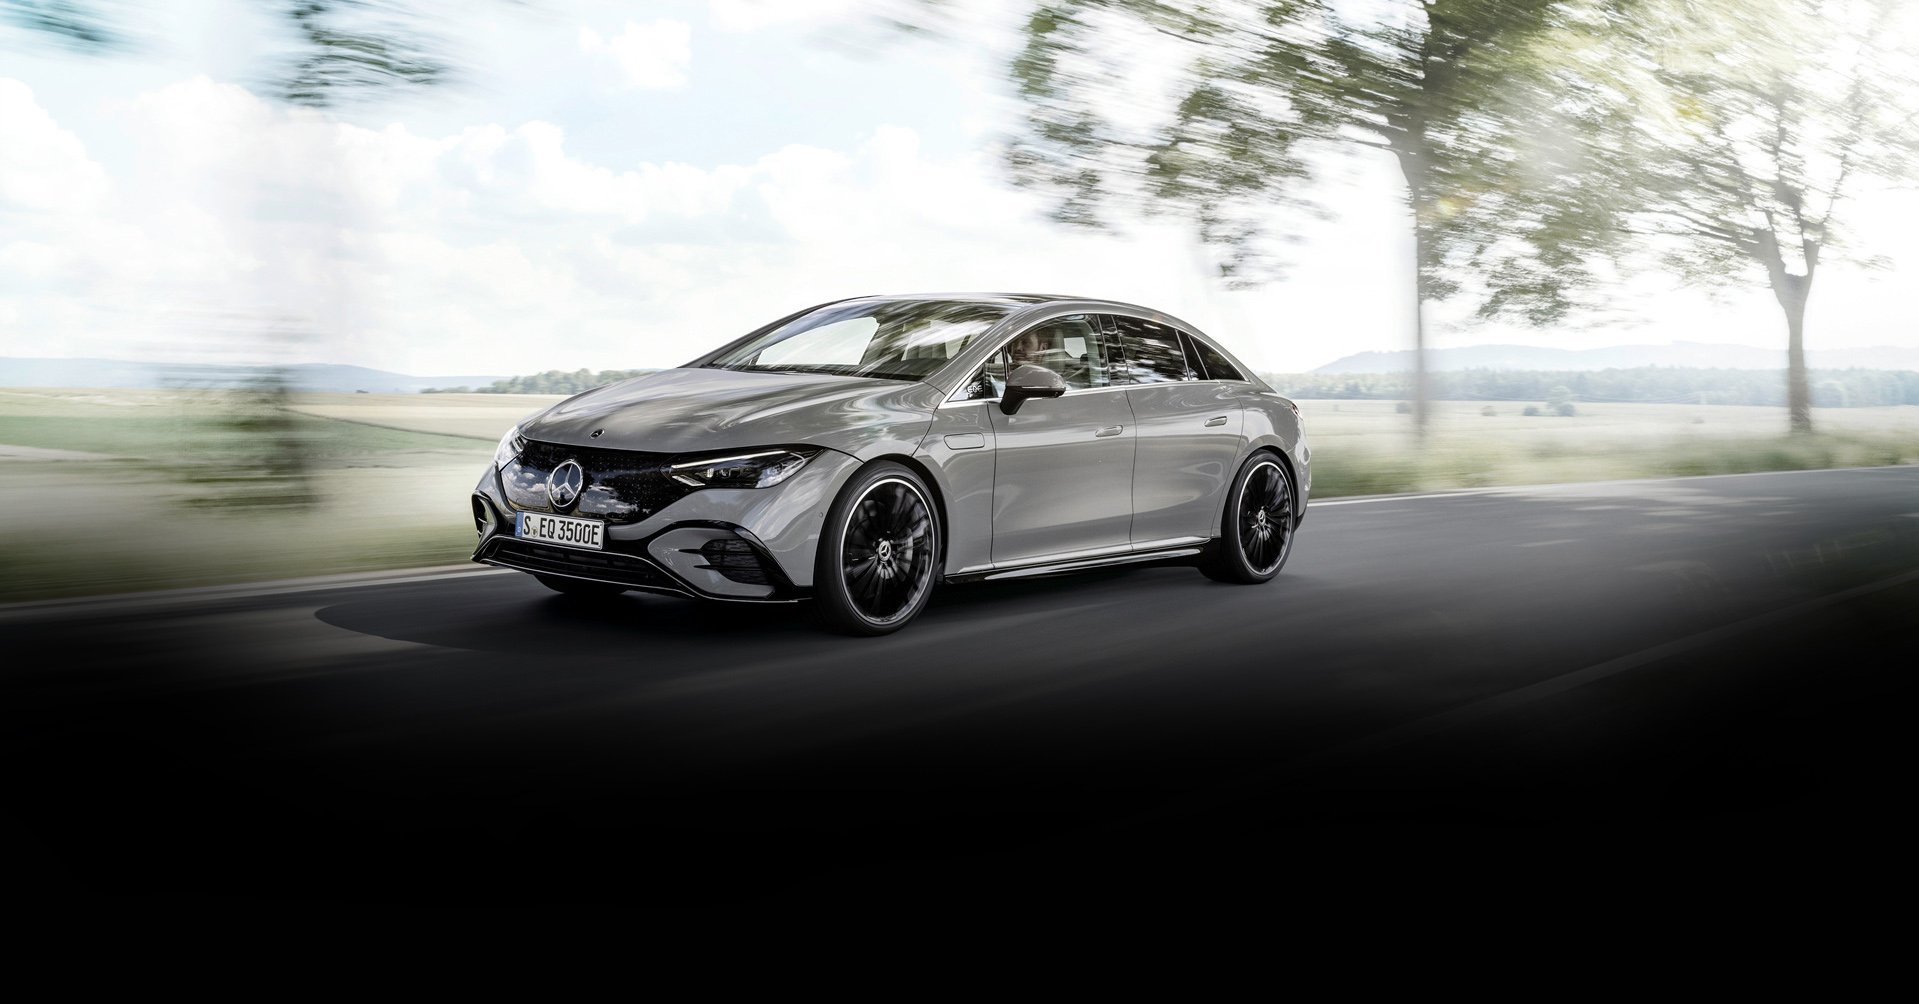
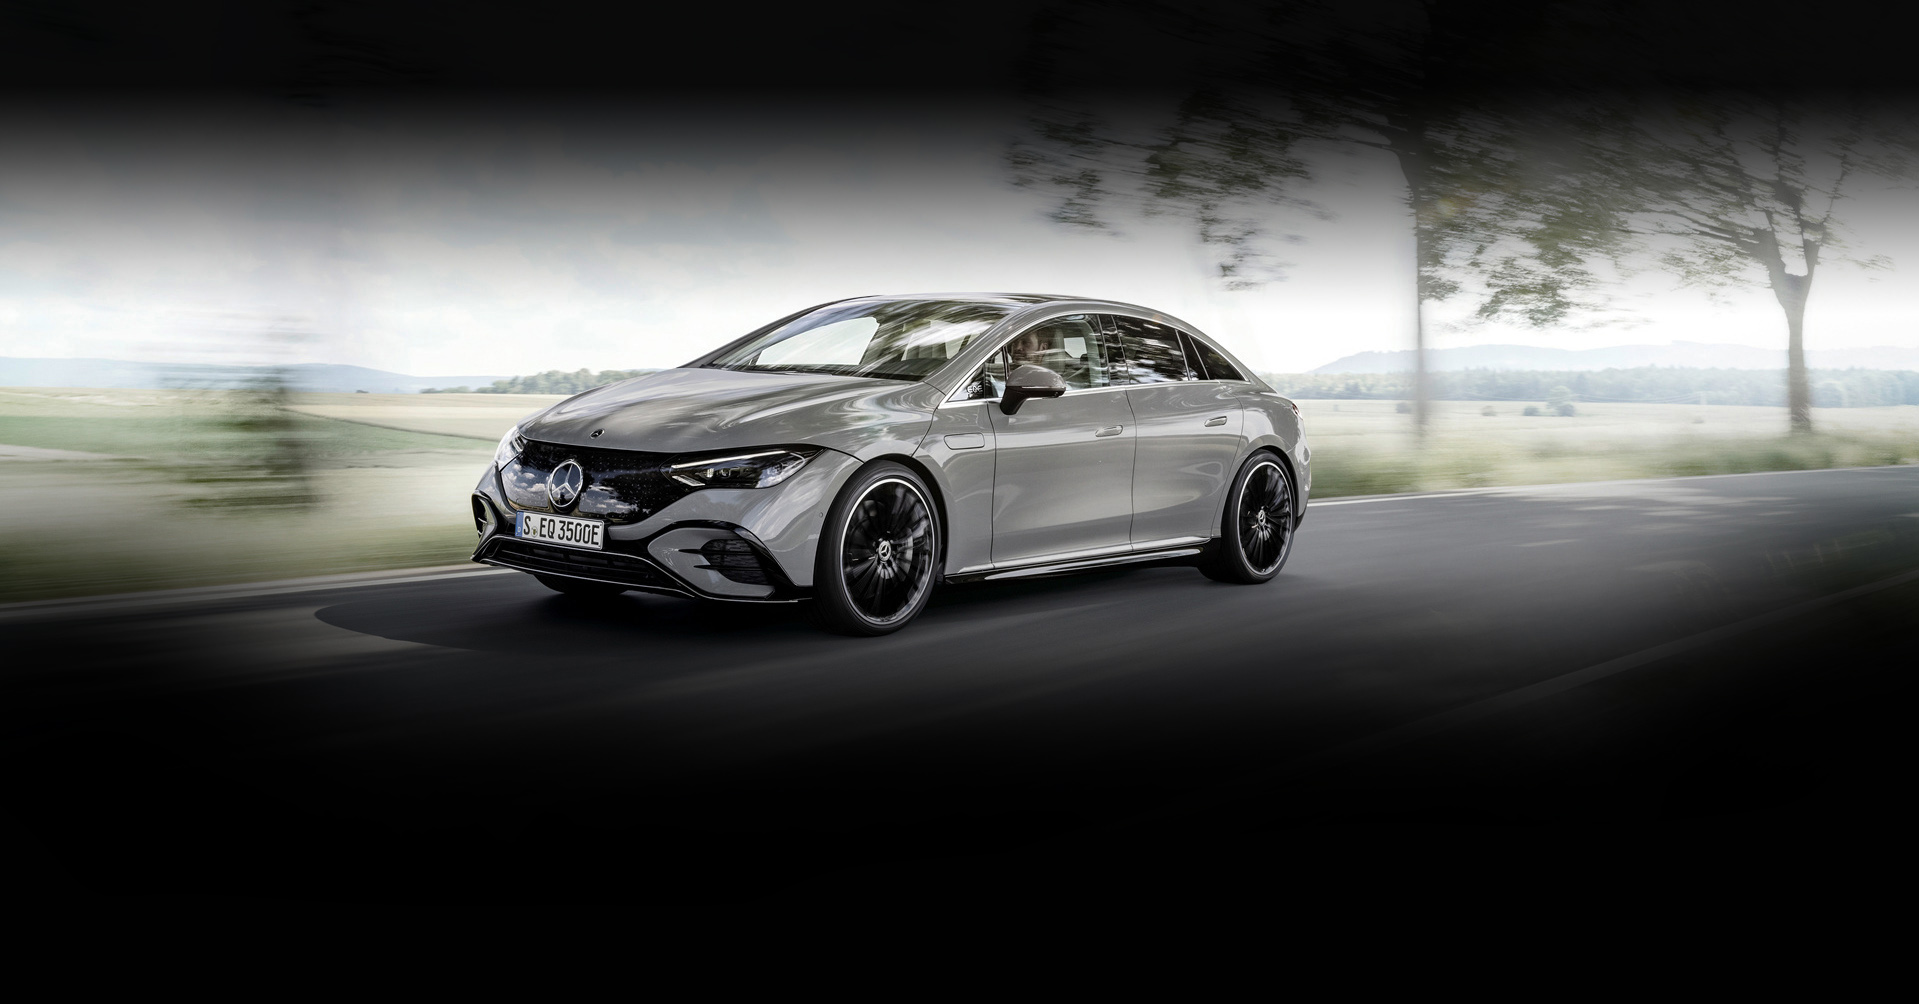
12

Changed region(s): [[0.0, 0.0, 1.0, 0.2779]]

diff --git a/index.html b/index.html
@@ -24,10 +24,11 @@
 <meta name="msapplication-TileColor" content="#ffffff">
 <meta name="msapplication-TileImage" content="/ms-icon-144x144.png">
 <meta name="theme-color" content="#ffffff">
+
 <link rel="stylesheet" href="style.css">
 <link rel="stylesheet" href="reset.css">
 <link rel="stylesheet" href="cardnews.css">
-
+<link rel="stylesheet" media="(min-width:0px) and (max-width:800px)" href="index_mobile.css">
 </head>
     <header>
       <!-----------------------style.css-->
@@ -48,7 +49,7 @@
     </header>
 
     <section>
-   <div><h1 class="hide">메인이미지</h1>
+   <div><h1 class="hide mainimg">메인이미지</h1>
             <h1>강력하고 독보적인 퍼포먼스 <br>The ALL Electric EQE</h1>
             <a href="test.html" alt="EQE자세히보기">자세히 보기</a>
         </div>
@@ -65,47 +66,53 @@
                   <a href="#" class="card">
                     <div class="thumb" style="background-image: url(image/eventimg.jpg);"></div>
                     <article>
-                      <h1>새해맞이이벤트</h1>
-                      <p>Lorem ipsum dolor sit amet consectetur adipisicing elit. </p>
-                      <span>New Event</span>
+                      <h1>UnLimit Your Class</h1>
+                      <p>
+                        메르세데스-벤츠 코리아
+                    20주년 특별 혜택<br><br><br>
+                        
+                        20주년 특별 혜택과 함께
+                        <br>메르세데스-벤츠의 다양한 클래스를 만나보세요. </p>
+                      <span>20th Event</span>
                     </article>
                   </a>
             </div>
             <div class="item-5">
                   <a href="#" class="card">
-                    <div class="thumb" style="background-image: url(image/bunny.png);"></div>
+                    <div class="thumb" style="background-image: url(image/phone0.jpg);"></div>
                     <article>
-                      <h1>이벤트 페이지</h1>
-                      <P>Lorem ipsum dolor sit amet consectetur adipisicing elit. Veritatis eum, temporibus sit repudiandae delectus voluptate quos tenetur nulla esse molestias, voluptates assumenda. Eligendi exercitationem fugit libero facere maxime ab nisi.</P>
-                      <span>EVENT</span>
+                      <h1>메르세데스 미 서비스 앱</h1>
+                      <P>
+                        ‘메르세데스 미 디지털 어시스턴트(Mercedes me Digital Assistant)’ 출시<br><br>
+                        선호하는 공식 서비스센터를 <br>몇 번의 클릭만으로 간편하게 예약하고 관리할 수 있습니다.<br> 앱 출시 기념 이벤트도 놓치지 마세요!</P>
+                      <span>메르세데스 미</span>
                     </article>
                   </a>
             </div>
             <div class="item-6">
               <a href="#" class="card">
-                <div class="thumb" style="background-image: url(/image/bunny.png);"></div>
+                <div class="thumb" style="background-image: url(/image/eventimg.jpg);"></div>
                 <article>
                   <h1>EVENT</h1>
                   <P> Lorem ipsum dolor sit amet consectetur adipisicing elit. Veritatis eum, temporibus sit repudiandae delectus voluptate quos tenetur nulla esse molestias, voluptates assumenda. Eligendi exercitationem fugit libero facere maxime ab nisi.</P>
-                    <span>공식홈페이지
-                 </span>
+                    <span>공식홈페이지 </span>
                 </article>
               </a>
             </div>
             <div class="item-7">
               <a href="#" class="card">
-                <div class="thumb" style="background-image: url(/image/bunny.png);"></div>
+                <div class="thumb" style="background-image: url(image/mainimg_bk.jpg);"></div>
                 <article>
-                  <h1>Notes From Behind</h1>
+                  <h1>신차 프로모션</h1>
                   <P>
                   Lorem ipsum, dolor sit amet consectetur adipisicing elit. Repellat alias accusantium quae! Accusamus reiciendis blanditiis accusantium veritatis, assumenda dolorem deserunt similique tempora modi et illo nulla ipsa sint? Illo, aliquam!</P>
-                  <span>Kendra Schaefer</span>
+                  <span></span>
                 </article>
               </a>
             </div>
           </div>
           <div class="downitems">
-dddddddddddddddddddddddddddd
+
           </div>
  
     <script type="text/javascript" src="main.js"></script>

diff --git a/cardnews.css b/cardnews.css
@@ -6,16 +6,15 @@
   }*/
 
   body{height:10000px;
-    background: #000000;  /* fallback for old browsers */
-    background: -webkit-linear-gradient(to left, #434343, #000000);  /* Chrome 10-25, Safari 5.1-6 */
-    background: linear-gradient(to left, #434343, #000000);}
+    ;  /* Chrome 10-25, Safari 5.1-6 */
+  }
   /*더 알아보기 슬라이더*/
   .moreviwe{
-    color: #fff;
+    color:#000;
     font-size: 40px;
     position: absolute;
-    top: 950px;
-      left: 300px;
+    top:980px;
+      left: 250px;
   
   }
   .band {
@@ -32,7 +31,7 @@
 
     position: absolute;
     top:1350px;
-    left: 50%;
+    left:47%;
     transform: translate(-50%, -50%);
     font-size: 20px;
 
@@ -42,6 +41,7 @@
   @media only screen and (min-width: 500px) {
     .band {
       grid-template-columns: 1fr 1fr;
+      
     }  
     .item-1 {
     grid-column: 1/ span 2;
@@ -60,7 +60,8 @@
   /* card */
   
   .card {
-    height: 615px;
+    height: 650px;
+    width: 350px;
     min-height: 60%;
     background: white;
     box-shadow: 0 2px 5px rgba(0,0,0,0.1);
@@ -95,12 +96,13 @@
   
   .card p { 
     flex: 1; /* make p grow to fill available space*/
-    line-height: 1.4;
+line-height: 1.4;
+    font-size: 14px;
   }
   
   /* typography */
   h1 {
-    font-size: 20px;
+    font-size: 25px;
     margin: 0;
     color: #333;
   }
@@ -114,7 +116,8 @@
     margin: 2em 0 0 0;
   }
 
-  .downitems{
+  /* .downitems{
+    
     position: relative;
     top:800px;
     left:180px;
@@ -122,4 +125,4 @@
     height:500px;
     background-color: #fff;
     align-items: center;
-  }
+  } */

diff --git a/style.css b/style.css
@@ -1,6 +1,6 @@
 @charset "utf-8";
 body{
-    background:#000;}
+    background: black;}
     /* Style */
 
 body.hidden { position: fixed; overflow-y:hidden;  touch-action: none;}
@@ -31,20 +31,11 @@ header >div .spot > li {float: left;}
 /*메인섹션*/
 section{
     height: 800px;
-    
     background:url(image/mainimg_bk.jpg);
     background-size: cover;
     background-repeat: no-repeat;
     }
 
-section::before{ 
-    content: "";
-    background: linear-gradient(to bottom,black,transparent);
-    position: absolute;
-    left: 0;
-    height: 100%;
-    width: 100%;
-}
 
 section div > h1{
   color: #fff;
@@ -59,9 +50,50 @@ section >div a{
     color: #fff;
     
     padding: 5px  30px ;
-    border: 2px solid silver;
+    border: 2px solid white;
     position: absolute;
     top: 370px;
     left: 830px;
 }
 
+@media screen and (max-width: 480px) {
+  
+  
+  
+  
+  
+  
+  
+  
+  
+  
+  
+  
+    .mainimg{
+        margin:0 auto;
+    }
+    section div > h1{
+        color: #fff;
+        font-size: 20px;
+        position: absolute;
+        top: 250px;
+        left: 80px;
+        text-align: center;}
+        section{
+            height: 800px;
+            background-image: url(#);
+          
+            }
+section >div a{
+    font-size: 15px;
+    color: #fff;
+    padding: 5px  30px ;
+    border: 2px solid white;
+    position: absolute;
+    top: 320px;
+    left: 120px;
+  
+}
+
+
+}

diff --git a/fade.html b/fade.html
@@ -4,7 +4,7 @@
     <meta charset="UTF-8">
     <meta http-equiv="X-UA-Compatible" content="IE=edge">
     <meta name="viewport" content="width=device-width, initial-scale=1.0">
-    <link rel="stylesheet" href="fade..css">
+    <link rel="stylesheet" href="fade.css">
     <link rel="stylesheet" href="reset.css">
     <title>Document</title>
 </head>
